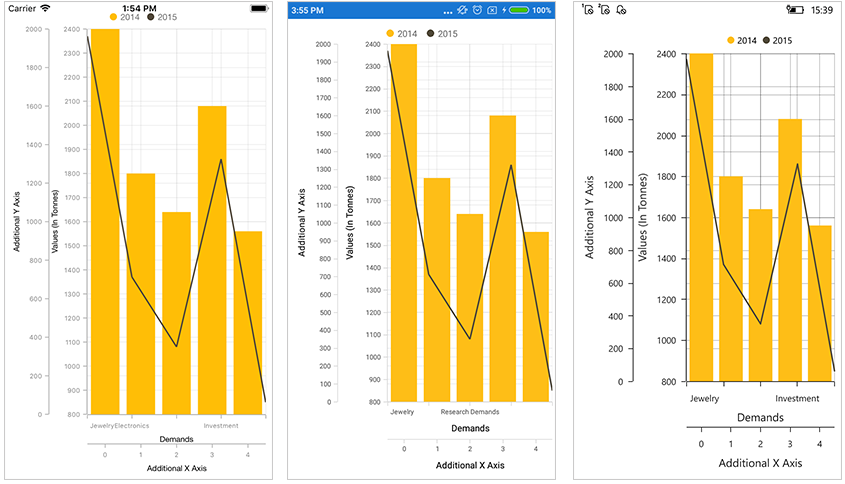
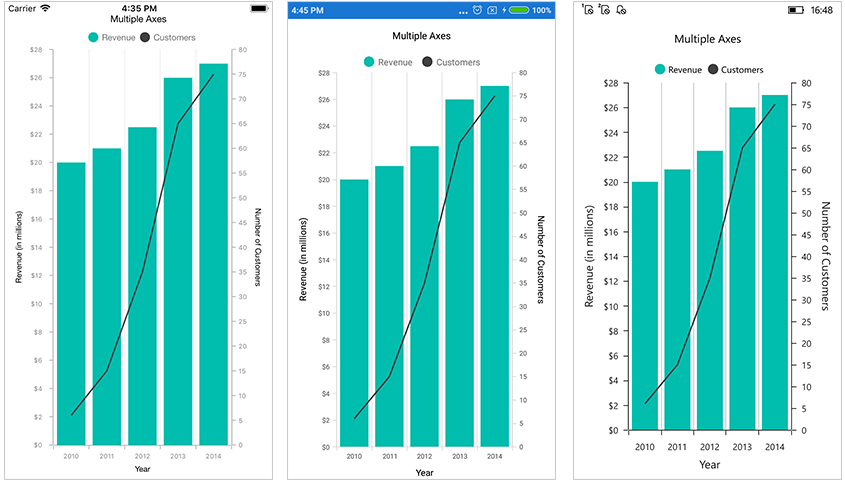
XAMARIN - 12725 Need to create UG document for Multiple Axis feature.
Modified image and code snippet.

diff --git a/Xamarin/SfChart/axis.md b/Xamarin/SfChart/axis.md
@@ -618,39 +618,25 @@ By default, all the series are plotted based on [`PrimaryAxis`](https://help.syn
 
 <chart:SfChart.Series>
 
-    <chart:ColumnSeries Label="2014" ItemsSource="{Binding Demands}" XBindingPath="Demand" YBindingPath="Year2014" >
+    <chart:ColumnSeries Label="Revenue" ItemsSource="{Binding Demands}" XBindingPath="XValue" YBindingPath="YValue" />
 
-        <chart:ColumnSeries.XAxis>
+    <chart:LineSeries Label="Customers" ItemsSource="{Binding Demands}" XBindingPath="XValue" YBindingPath="YValue" >
 
-            <chart:NumericalAxis>
+        <chart:LineSeries.YAxis>
+
+            <chart:NumericalAxis OpposedPosition="true" >
 
                 <chart:NumericalAxis.Title>
 
-                    <chart:ChartAxisTitle Text = "Additional X Axis" />
+                    <chart:ChartAxisTitle Text = "Number of Customers" />
 
                 </chart:NumericalAxis.Title>
 
             </chart:NumericalAxis>
 
-        </chart:ColumnSeries.XAxis>
+        </chart:LineSeries.YAxis>
 
-        <chart:ColumnSeries.YAxis>
-
-            <chart:NumericalAxis>
-
-                <chart:NumericalAxis.Title>
-
-                    <chart:ChartAxisTitle Text = "Additional Y Axis" />
-
-                </chart:NumericalAxis.Title>
-
-            </chart:NumericalAxis>
-
-        </chart:ColumnSeries.YAxis>
-
-    </chart:ColumnSeries>
-
-    <chart:LineSeries Label="2015" ItemsSource="{Binding Demands}" XBindingPath="Demand" YBindingPath="Year2015" />
+     </chart:LineSeries>
 
 </chart:SfChart.Series>
 
@@ -662,23 +648,11 @@ ColumnSeries series = new ColumnSeries();
 
 series.ItemsSource = model.Demands;
 
-series.XBindingPath = "Demand";
+series.XBindingPath = "XValue";
 
-series.YBindingPath = "Year2014";
+series.YBindingPath = "YValue";
 
-series.Label = "2014";
-
-NumericalAxis xAxis = new NumericalAxis();
-
-xAxis.Title.Text = "Additional X Axis";
-
-series.XAxis = xAxis;
-
-NumericalAxis yAxis = new NumericalAxis();
-
-yAxis.Title.Text = "Additional Y Axis";
-
-series.YAxis = yAxis;
+series.Label = "Revenue";
 
 chart.Series.Add(series);
 
@@ -686,11 +660,19 @@ LineSeries lineSeries = new LineSeries();
 
 lineSeries.ItemsSource = model.Demands;
 
-lineSeries.XBindingPath = "Demand";
+lineSeries.XBindingPath = "XValue";
 
-lineSeries.YBindingPath = "Year2015";
+lineSeries.YBindingPath = "YValue";
 
-lineSeries.Label = "2015";
+lineSeries.Label = "Customers";
+
+NumericalAxis yAxis = new NumericalAxis();
+
+yAxis.OpposedPosition = true;
+
+yAxis.Title.Text = "Number of Customers";
+
+lineSeries.YAxis = yAxis;
 
 chart.Series.Add(lineSeries);
 
@@ -699,8 +681,6 @@ chart.Series.Add(lineSeries);
 {% endtabs %}
 
 ![](axis_images/MultipleAxes.png)
-
-The first series is plotting based on additional X & Y axis and second series (or remaining series) is plotting against the primary and secondary axis.
 
 ## Common axis features
 
